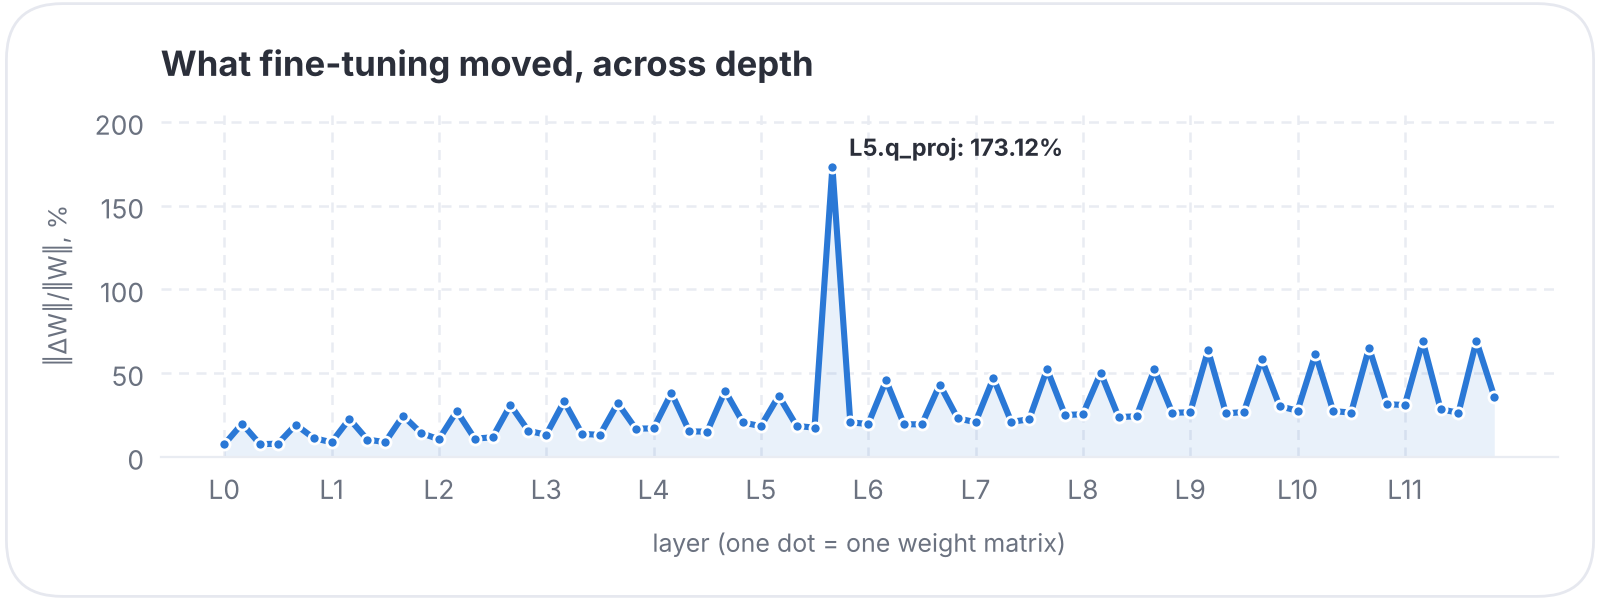
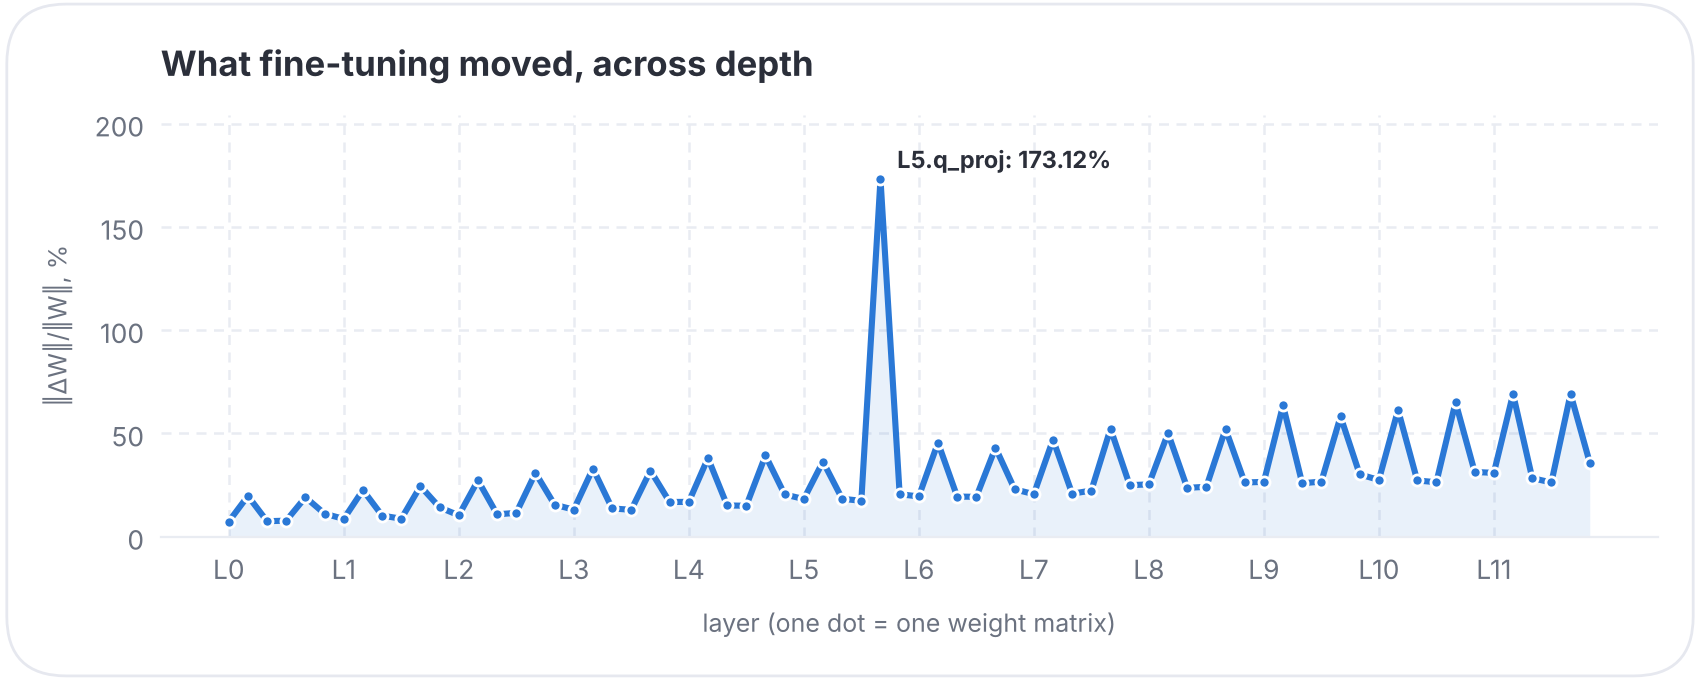
docs: full-width charts

diff --git a/wtools/weights.py b/wtools/weights.py
@@ -26,9 +26,10 @@ import torch
 # ---------------------------------------------------------------- оформление графиков
 # Стиль как у витрины (scripts/brand): белая карточка со скруглением, пастельная заливка под линиями,
 # палитра бренда. Подписи — по-русски; WTOOLS_LANG=en — по-английски (для README и англоязычных пользователей).
-SERIES = ["#2a78d6", "#d0632a", "#23855c", "#7a4fd0", "#c8456a", "#a87a00"]
+SERIES = ["#2a78d6", "#d0632a", "#23855c", "#7a4fd0", "#c8456a", "#a87a00", "#0f8b8d"]
 SURFACE, INK, MUTED, GRID = "#ffffff", "#2b2f3a", "#6b7280", "#e9ecf2"
 LANG = os.environ.get("WTOOLS_LANG", "ru")
+W, H = 8.5, 3.4          # все графики одной ширины и высоты: рядом в отчёте и в README выглядят как набор
 
 
 def _t(ru: str, en: str) -> str:
@@ -196,7 +197,7 @@ def inspect(path, out="weights_report", top: int = 40) -> tuple[str, list[str]]:
              _table(["блок", "параметров", "доля"],
                     [[g, f"{n:,}".replace(",", " "), f"{100 * n / total:.1f}%"] for g, n in top_groups])]
     plt = _plt()
-    fig, ax = plt.subplots(figsize=(7, 0.32 * len(top_groups) + 1.2))
+    fig, ax = plt.subplots(figsize=(W, 0.32 * len(top_groups) + 1.4))
     labels = [_short(g, 34) for g, _ in top_groups][::-1]
     vals = [100 * n / total for _, n in top_groups][::-1]
     ax.barh(labels, vals, color=SERIES[0], height=0.62, alpha=0.9)
@@ -250,7 +251,7 @@ def stats(path, out="weights_report", tensor: str | None = None, top: int = 30) 
     plt = _plt()
     # 1) RMS по тензорам в порядке модели: видно, как масштаб весов меняется по глубине
     weights = [n for n in names if state[n].dim() >= 2] or names
-    fig, ax = plt.subplots(figsize=(8, 3.2))
+    fig, ax = plt.subplots(figsize=(W, H))
     rms = [st[n]["rms"] for n in weights]
     _line(ax, range(len(weights)), rms)
     ax.set_xlabel(_t("матрица весов в порядке модели", "weight matrix, in model order"))
@@ -265,7 +266,7 @@ def stats(path, out="weights_report", tensor: str | None = None, top: int = 30) 
     x = _float(state[pick]).flatten()
     if x.numel() > 2_000_000:
         x = x[torch.randperm(x.numel(), generator=torch.Generator().manual_seed(0))[:2_000_000]]
-    fig, ax = plt.subplots(figsize=(7, 3.2))
+    fig, ax = plt.subplots(figsize=(W, H))
     ax.hist(x.numpy(), bins=120, color=SERIES[0], alpha=0.85, log=True, edgecolor="white", linewidth=0.3)
     s = st[pick]
     for k in (-6, 6):
@@ -318,14 +319,14 @@ def diff(path_a, path_b, out="weights_report", top: int = 20) -> tuple[str, list
     if changed:
         plt = _plt()
         shown = order[:top][::-1]
-        fig, ax = plt.subplots(figsize=(7.5, 0.3 * len(shown) + 1.3))
+        fig, ax = plt.subplots(figsize=(W, 0.3 * len(shown) + 1.4))
         ax.barh([_short(n, 40) for n, *_ in shown], [100 * r for _, _, r, _ in shown], color=SERIES[0], height=0.62, alpha=0.9)
         ax.set_xlabel(_t("относительное изменение ‖ΔW‖/‖W‖, %", "relative change ‖ΔW‖/‖W‖, %"))
         ax.set_title(_t(f"Какие слои изменились сильнее всего (топ-{len(shown)})", f"Most changed layers (top {len(shown)})"))
         ax.grid(axis="y", visible=False)
         pngs.append(_save(fig, Path(out), "diff_top.png"))
         series = [r for r in res if a[r[0]].dim() >= 2] or res
-        fig, ax = plt.subplots(figsize=(8, 3))
+        fig, ax = plt.subplots(figsize=(W, H))
         vals = [100 * r for _, _, r, _ in series]
         _line(ax, range(len(series)), vals)
         ax.set_xlabel(_t("матрица весов в порядке модели", "weight matrix, in model order"))
@@ -399,7 +400,7 @@ def lora(path, out="weights_report", alpha: float | None = None, r: int | None =
     pngs = []
     kinds = sorted(per_kind, key=lambda k: -sum(per_kind[k]) / len(per_kind[k]))
     color = {k: SERIES[i] if i < len(SERIES) else MUTED for i, k in enumerate(kinds)}
-    fig, ax = plt.subplots(figsize=(8, 3.2))
+    fig, ax = plt.subplots(figsize=(W, H))
     for i, (n, k, *_rest) in enumerate(rows):
         ax.bar(i, _rest[2], color=color[k], width=0.78, alpha=0.9)
     from matplotlib.patches import Patch
@@ -409,10 +410,11 @@ def lora(path, out="weights_report", alpha: float | None = None, r: int | None =
     ax.set_xlabel(_t("модуль в порядке модели", "module, in model order"))
     ax.set_ylabel("‖ΔW‖")
     _depth_axis(ax, [x[0] for x in rows])
+    ax.set_xlabel(_t("слой (столбец — один модуль с LoRA)", "layer (one bar = one LoRA module)"))
     ax.set_ylim(0, max(x[4] for x in rows) * 1.3 or 1)          # место для легенды над столбцами
     ax.set_title(_t("Насколько адаптер меняет каждый модуль", "How much the adapter changes each module"))
     pngs.append(_save(fig, Path(out), "lora_norms.png"))
-    fig, ax = plt.subplots(figsize=(6.5, 3.2))
+    fig, ax = plt.subplots(figsize=(W, H))
     for k in kinds[:len(SERIES)]:
         arr = torch.tensor([sp + [0.0] * (max(map(len, spectra[k])) - len(sp)) for sp in spectra[k]]).mean(0)
         _line(ax, range(1, len(arr) + 1), arr.tolist(), color=color[k], label=k, fill=False)
@@ -471,7 +473,7 @@ def quant(path, out="weights_report", bits: int = 4, top: int = 20) -> tuple[str
     pngs = []
     if res:
         plt = _plt()
-        fig, ax = plt.subplots(figsize=(8, 3.3))
+        fig, ax = plt.subplots(figsize=(W, H))
         labels = {"tensor": _t("один масштаб на тензор", "one scale per tensor"), "row": _t("на строку", "per row"), "block": _t("блоки по 32", "32-blocks")}
         for i, m in enumerate(("tensor", "row", "block")):
             _line(ax, range(len(res)), [100 * r[1][m] for r in res], color=SERIES[i], label=labels[m], fill=False)
@@ -591,7 +593,7 @@ def snapshot(path, out="weights_report", rows: int = 256) -> tuple[str, list[str
             k = GGUF_KIND.search(t["name"]).group(1)
             if k not in kinds:
                 kinds.append(k)
-        fig, ax = plt.subplots(figsize=(8.5, 3.4))
+        fig, ax = plt.subplots(figsize=(W, H + 0.6))
         for i, k in enumerate(kinds[:len(SERIES)]):
             pts = [(int(m.group(1)), t["rms"]) for t in mats if GGUF_KIND.search(t["name"]).group(1) == k
                    for m in [re.search(r"(?:blk|layers)\.(\d+)\.", t["name"])] if m]
@@ -601,16 +603,16 @@ def snapshot(path, out="weights_report", rows: int = 256) -> tuple[str, list[str
         ax.set_xlabel(_t("номер слоя", "layer"))
         ax.set_ylabel(_t("RMS веса", "weight RMS"))
         ax.set_title(_t("Масштаб весов по слоям и типам матриц", "Weight scale by layer and matrix type"))
-        ax.legend(ncol=min(4, len(kinds)), fontsize=8.5)
+        ax.legend(ncol=min(7, len(kinds)), fontsize=8, loc="upper center", bbox_to_anchor=(0.5, -0.2))
         pngs.append(_save(fig, out, "snapshot_rms.png"))
-        fig, ax = plt.subplots(figsize=(8.5, 3.2))
+        fig, ax = plt.subplots(figsize=(W, H))
         xs = list(range(len(mats)))
         _line(ax, xs, [t["tail"] for t in mats], color=SERIES[3])
         ax.set_ylabel("|max| / σ")
         ax.set_title(_t("«Хвосты» распределений: где живут выбросы", "Distribution tails: where the outliers live"))
         _depth_axis(ax, [t["name"].replace("blk.", "layers.") for t in mats], [t["tail"] for t in mats], lambda v: f"{v:.0f}σ")
         pngs.append(_save(fig, out, "snapshot_tails.png"))
-    fig, ax = plt.subplots(figsize=(6.5, 0.45 * len(by_type) + 1.4))
+    fig, ax = plt.subplots(figsize=(W, 0.42 * len(by_type) + 1.5))
     order = sorted(by_type.items(), key=lambda kv: kv[1])
     ax.barh([k for k, _ in order], [100 * v / total for _, v in order], color=SERIES[0], height=0.6, alpha=0.9)
     for y, (_, v) in enumerate(order):

diff --git a/docs/JOURNAL.md b/docs/JOURNAL.md
@@ -5,6 +5,31 @@
 
 ---
 
+## 2026-10-21 — витрина: графики wtools одного размера, без «половинок»
+**Что:** на GitHub два графика LoRA стояли рядом по 49 % — мелкий нечитаемый текст и разная высота (у wtools были
+разные пропорции). Все графики `weights.py` теперь одного размера (`W, H = 8.5, 3.4`), в README (EN/RU) — по одному
+на всю ширину; подпись оси у столбцов LoRA — «столбец — один модуль», а не «точка — матрица».
+**Зачем:** пользователь прислал скриншот README — «разве гит должен так выглядеть». **Проверка:** `pytest
+wtools/test_weights.py` — 7 passed; три графика просмотрены стопкой.
+**Коммит:** `docs, wtools: графики одного размера, на всю ширину`
+
+## 2026-10-21 — сбор трасс с инструментами без Claude и без GPT (датасет v5)
+**Что:** `traces/`: `build_tasks.py` — 406 задач со скрытой проверкой (solve 106, solve_tests 79, bugfix 104 —
+эталон algo-cli, испорченный AST-мутацией, output 117 — «что выведет» из проверенных примеров ds; MBPP добавляет
+ноутбук), каждая проверена при сборке, похожие на контрольные выброшены дедупом; `collect.py` — прогон через
+`loca --record` (по попыткам, параллельно, с бюджетом времени и продолжением после обрыва), скрытая проверка,
+отбор годных (loca не вмешивалась, без повторов, ≤14 шагов, модель сама вызвала инструменты; хвост после напоминания
+«запусти тесты» обрезается, если код после него не менялся), лучшая трасса на задачу → `train.jsonl` (messages +
+tools), `report.md` с замером №9 «создаёт ли модель файлы сама»; `review.py` — приём zip, просмотр спорных (y/n),
+`ds/traces/traces.jsonl`, автокоммит; `kit.py` — `traces_kit.zip` (loca + скрипты + задачи, 0,9 МБ).
+`kaggle_collect_traces.ipynb` — Ollama с параллелью, my-coder из Output v4 + базовая Qwen по очереди, MBPP, сбор,
+`_RESULTS/results.zip`. Команды: `./ds.sh traces build | kit | add <zip> | status`.
+**Зачем:** узкое место №9 лечится данными: 10–15 % примеров с вызовами инструментов. Сбор не тратит лимиты Claude.
+**Проверка:** `traces/test_traces.py` — 4 passed (сквозной прогон на поддельной модели: хорошая трасса берётся,
+«ленивая» — нет, хотя loca спасла код; проверка ловит неверный ответ и тронутые тесты; мутанты меняют поведение; MBPP).
+Найдены и исправлены 2 бага страховки loca (`5c67f33`).
+**Коммит:** `traces: сбор датасета с вызовами инструментов (Kaggle, без Claude)`
+
 ## 2026-10-21 — узкое место №9: дообученная модель не вызывает инструменты
 **Что:** в `docs/BOTTLENECKS.md` — №9 (🔴 → 🟡): my-coder v4 в loca пишет код в чат вместо write_file и выдумывает
 листинг. Причина — датасет без единого вызова инструмента; шаблон чата с tools цел (снимок v4). Страховка — в loca

diff --git a/README.md b/README.md
@@ -214,10 +214,9 @@ Details: [docs/RESULTS.md](docs/RESULTS.md).
 
 <img src="assets/wtools_diff_en.png" alt="wtools diff: relative change of every weight matrix across depth" width="100%">
 
-<p align="center">
-  <img src="assets/wtools_lora_en.png" alt="wtools lora: ‖ΔW‖ per module" width="49%">
-  <img src="assets/wtools_spectrum_en.png" alt="wtools lora: ΔW spectrum" width="49%">
-</p>
+<img src="assets/wtools_lora_en.png" alt="wtools lora: ‖ΔW‖ per module" width="100%">
+
+<img src="assets/wtools_spectrum_en.png" alt="wtools lora: ΔW spectrum" width="100%">
 
 <sub>Real output of `wtools` on a 12-layer toy model (`scripts/brand/wtools_demo.py`). The agent can't see images, so every number on a chart is also
 printed as text — the model explains the chart from the numbers.</sub>
